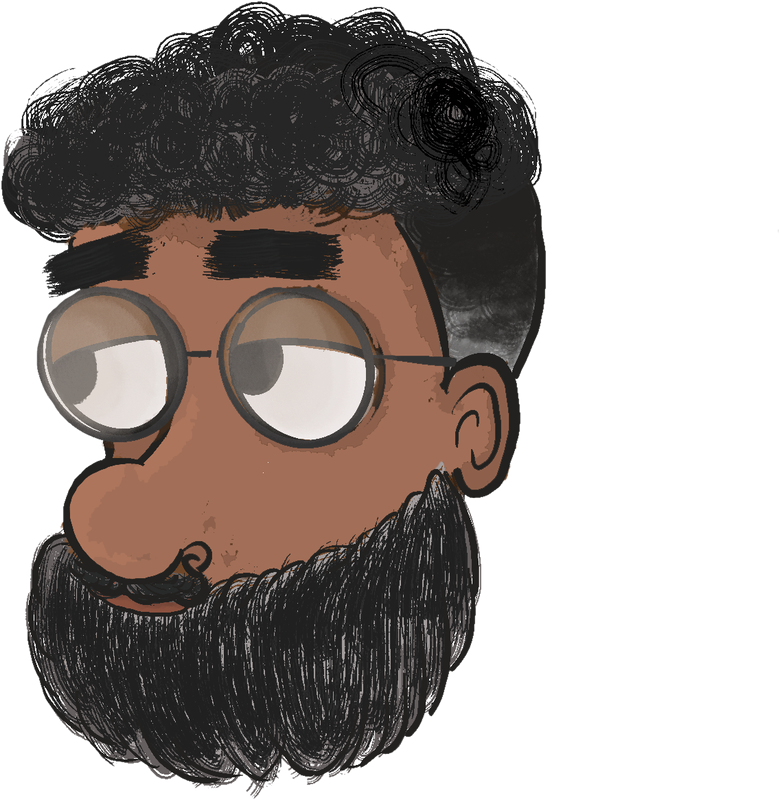
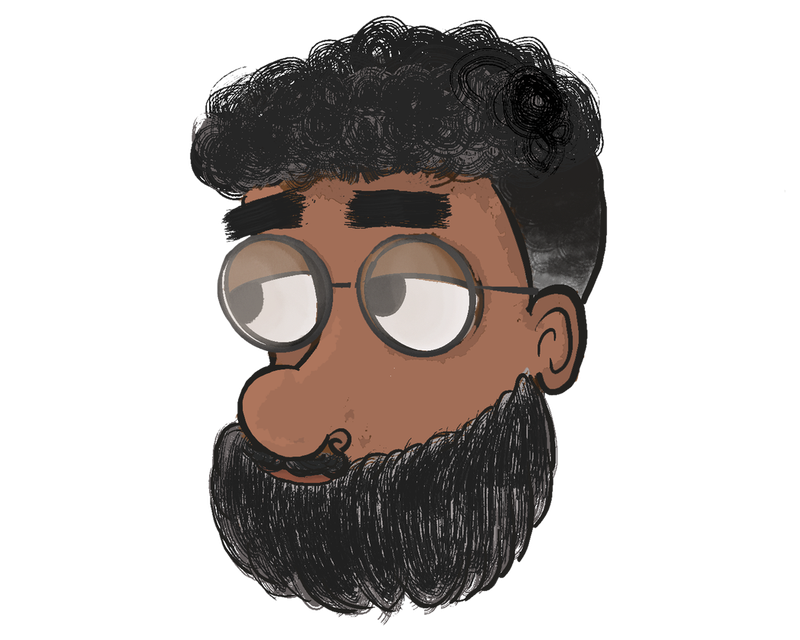
picture

diff --git a/src/CSS/IDCard.css b/src/CSS/IDCard.css
@@ -43,15 +43,29 @@
     border-radius: 50%;
     background: #a93a2b;
     box-shadow: 0 10px 26px 2px rgba(36, 36, 38, 0.35);
+    z-index: 0;
   }
 
-  /* Avatar pops above the disc */
+  /* White ring — smaller than the disc, sits between disc and avatar */
+  .ID-Ring {
+    position: absolute;
+    left: 50%;
+    bottom: 7%;
+    transform: translateX(-50%);
+    width: 82%;
+    height: 82%;
+    border-radius: 50%;
+    background: #f4f4f0;
+    z-index: 1;
+  }
+
+  /* Avatar pops above everything */
   .ID-Avatar {
     position: relative;
     z-index: 2;
-    width: 104%;
+    width: 92%;
     height: auto;
-    transform: translateY(-6%);
+    transform: translateY(-8%);
     filter: drop-shadow(0 10px 14px rgba(0, 0, 0, 0.3));
     animation: slideTtB 1.5s ease-out 0s 1 normal;
   }
@@ -114,13 +128,25 @@
     border-radius: 50%;
     background: #a93a2b;
     box-shadow: 0 8px 20px 2px rgba(36, 36, 38, 0.3);
+    z-index: 0;
+  }
+  .ID-Ring {
+    position: absolute;
+    left: 50%;
+    bottom: 7%;
+    transform: translateX(-50%);
+    width: 82%;
+    height: 82%;
+    border-radius: 50%;
+    background: #f4f4f0;
+    z-index: 1;
   }
   .ID-Avatar {
     position: relative;
     z-index: 2;
-    width: 104%;
+    width: 92%;
     height: auto;
-    transform: translateY(-6%);
+    transform: translateY(-8%);
     filter: drop-shadow(0 8px 12px rgba(0, 0, 0, 0.3));
     animation: slideTtB 1.5s ease-out 0s 1 normal;
   }

diff --git a/src/Components/IDCard.jsx b/src/Components/IDCard.jsx
@@ -5,6 +5,7 @@ const IDCard = (props) => {
     <div className="ID-Card">
       <div className="ID-Picture">
         <div className="ID-Disc" />
+        <div className="ID-Ring" />
         <img src={props.pfp} alt={props.name} className="ID-Avatar" />
       </div>
       <div className="ID-Name">